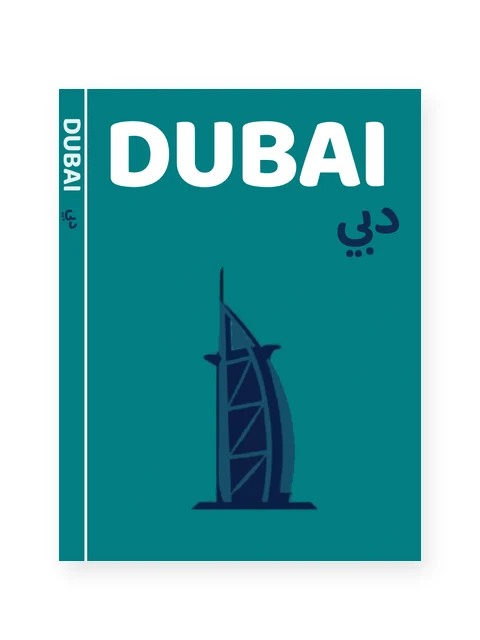
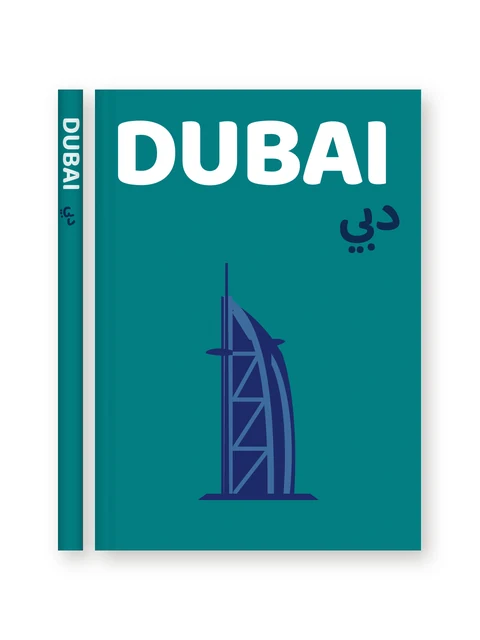
Dubai travel template, redrawn sharp, now offered
After Clara's mock-up: Burj Al Arab drawn as vectors (travel-dubai-v2.svg),
sharp at any print size, instead of the low-resolution picture that kept
the template hidden. Same colors and titles (Dubai, and دبي under it). It
joins the travel templates; Cairo stays hidden. New preview picture.

Claude-Session: https://claude.ai/code/session_019iW3qNmH4N4x87DfLWtU9k

Changed region(s): [[0.0938, 0.125, 0.9062, 0.875], [0.4062, 0.4062, 0.6562, 0.8125]]

diff --git a/frontend/src/lib/coverThemes.js b/frontend/src/lib/coverThemes.js
@@ -305,6 +305,33 @@ export const COVER_THEMES = [
           ],
         },
       },
+      {
+        // Burj Al Arab, drawn as vectors after Clara's mock-up (sharp at
+        // any print size); "Dubai" in Arabic under the title.
+        id: "travel-dubai",
+        name: "Dubai",
+        landingImage: "/theme-covers/travel-dubai.webp",
+        title: "Dubai",
+        cover: {
+          bg_color: "#027C80",
+          accent_color: "#0E2A4F",
+          text_color: "#FFFFFF",
+          title_font: BALOO,
+          title_font_weight: "800",
+          title_font_size: 66,
+          title_x: 0.05, title_y: 0.04, title_w: 0.89, title_h: 0.18,
+          spine_subtitle: "دبي",
+          spine_subtitle_color: "#0E2A4F",
+          spine_subtitle_font: ARABIC,
+          spine_subtitle_weight: "700",
+          spine_title_size: 32,
+          spine_title_font: BALOO,
+          extra_items: [
+            iconItem(TRAVEL_DUBAI_ICON, "travel_dubai", { x: 0.286, y: 0.36, w: 0.428, h: 0.55 }),
+            textItem("subtitle", "دبي", { role: "subtitle", x: 0.44, y: 0.22, w: 0.5, h: 0.08, font: ARABIC, font_weight: "700", font_size: 34, color: "#0E2A4F", text_align: "right" }),
+          ],
+        },
+      },
     ],
   },
   {
@@ -609,33 +636,8 @@ export function findTemplate(templateId) {
 // Travel covers for travellers from Lebanon, kept out of the template list
 // until their illustrations are redone from high-resolution images: add
 // them back to the "travel" templates above to offer them again (as done
-// for Beirut).
+// for Beirut and Dubai).
 export const PENDING_TRAVEL_TEMPLATES = [
-  {
-    id: "travel-dubai",
-    name: "Dubai",
-    landingImage: "/theme-covers/travel-dubai.webp",
-    title: "Dubai",
-    cover: {
-      bg_color: "#027C80",
-      accent_color: "#0E2A4F",
-      text_color: "#FFFFFF",
-      title_font: BALOO,
-      title_font_weight: "800",
-      title_font_size: 66,
-      title_x: 0.05, title_y: 0.04, title_w: 0.89, title_h: 0.18,
-      spine_subtitle: "دبي",
-      spine_subtitle_color: "#0E2A4F",
-      spine_subtitle_font: ARABIC,
-      spine_subtitle_weight: "700",
-      spine_title_size: 32,
-      spine_title_font: BALOO,
-      extra_items: [
-        iconItem(TRAVEL_DUBAI_ICON, "travel_dubai", { x: 0.286, y: 0.36, w: 0.428, h: 0.55 }),
-        textItem("subtitle", "دبي", { role: "subtitle", x: 0.44, y: 0.22, w: 0.5, h: 0.08, font: ARABIC, font_weight: "700", font_size: 34, color: "#0E2A4F", text_align: "right" }),
-      ],
-    },
-  },
   {
     id: "travel-cairo",
     name: "Cairo, Egypt",

diff --git a/frontend/src/lib/themeAssets.js b/frontend/src/lib/themeAssets.js
@@ -8,5 +8,5 @@ export const TRAVEL_MOROCCO_ICON = "/cover-art/travel-morocco-v2.svg";
 export const TRAVEL_AUSTRALIA_ICON = "/cover-art/travel-australia-v1.svg";
 export const TRAVEL_BARCELONA_ICON = "/cover-art/travel-barcelona-v2.svg";
 export const TRAVEL_BEIRUT_ICON = "/cover-art/travel-beirut-v2.svg";
-export const TRAVEL_DUBAI_ICON = "/cover-art/travel-dubai-v1.svg";
+export const TRAVEL_DUBAI_ICON = "/cover-art/travel-dubai-v2.svg";
 export const TRAVEL_CAIRO_ICON = "/cover-art/travel-cairo-v1.svg";
